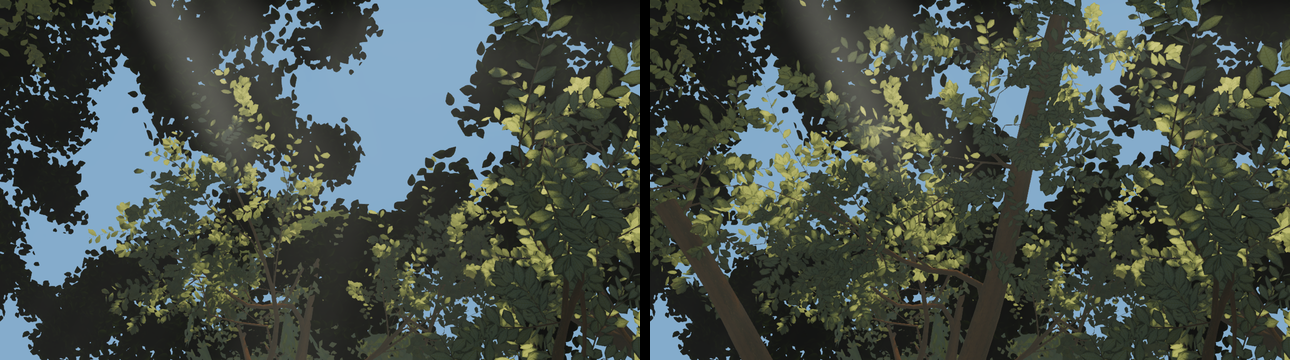
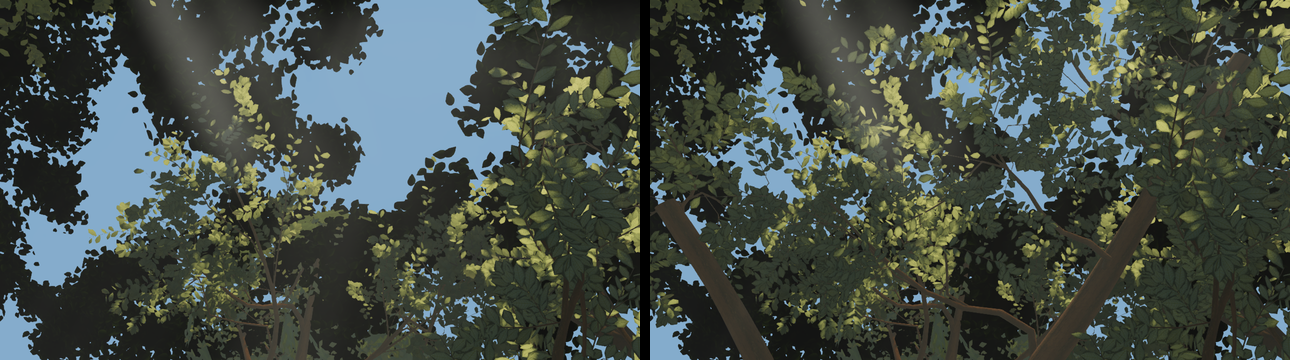
trees (the plateau's roof, v4): the west bough runs on to the plateau's west edge with two more non-casting lobes for the look-up's far corner — w27-plateau-u blue 23.1 → 9.6 % (gaps between leaves, not open sky); six views vs the head 24dc4cac: A–E pixel-identical, F 0.09 % / −0.0001; A 8.70 M

diff --git a/src/world/trees/index.ts b/src/world/trees/index.ts
@@ -548,14 +548,19 @@ const CANOPY_BOUGHS: { giant: string; fromY: number; to: [number, number, number
   {
     giant: 'east-giant',
     fromY: 16.5,
-    to: [16.4, 15.8, -4.6],
-    radius: 0.45,
+    to: [13.4, 16.2, -1.6],
+    radius: 0.5,
     tipRadius: 0.2,
     lobes: [
-      { t: 0.5, center: [23.0, 16.6, -4.2], hR: 3.2, vR: 1.9, density: 1, castShadow: false },
-      { t: 0.75, center: [19.3, 16.0, -3.2], hR: 3.5, vR: 2.0, density: 1, castShadow: false },
+      { t: 0.4, center: [23.0, 16.6, -4.2], hR: 3.2, vR: 1.9, density: 1, castShadow: false },
+      { t: 0.6, center: [19.3, 16.0, -3.2], hR: 3.5, vR: 2.0, density: 1, castShadow: false },
       // the blue west of the zenith (screen (0.69, 0.10) of the look-up → (16, 17, −4.5))
-      { t: 0.97, center: [16.2, 17.0, -4.6], hR: 3.3, vR: 1.9, density: 1, castShadow: false },
+      { t: 0.78, center: [16.2, 17.0, -4.6], hR: 3.3, vR: 1.9, density: 1, castShadow: false },
+      // … and the look-up's far corner (screen (0.85, 0.15) → (13.8, 17, −2.2); (0.85, 0.5) →
+      // (15.4, 17, 0.4)): the bough runs on 4 m to the plateau's west edge. Projected into A / F
+      // the lobes' undersides sit at screen y −0.49 … −0.68 — above the frames.
+      { t: 0.93, center: [13.8, 17.2, -2.0], hR: 3.2, vR: 1.9, density: 1, castShadow: false },
+      { t: 0.99, center: [15.2, 16.4, 0.6], hR: 3.0, vR: 1.8, density: 1, castShadow: false },
     ],
   },
   // … and a short second bough north for the blue east of it (screen (0.19, 0.4) → (25.5, 17, −6.5)),

diff --git a/art/environment/round51-plateau-roof/README.md b/art/environment/round51-plateau-roof/README.md
@@ -5,7 +5,7 @@ sky with crowns only at the frame's edges; the reference has none. Nothing stood
 the plateau oak's crown is 17 m north, the east giant's 11 m south-east.
 
 Two new east-giant canopy boughs (`trees/index.ts` CANOPY_BOUGHS): one leaving the bole at 16.5 m
-and running 14 m west over the plateau to (16.4, 15.8, −4.6) with three ordinary lobes (hR 3.2–3.5),
+and running 18 m west over the plateau to (13.4, 16.2, −1.6) with five ordinary lobes (hR 3.0–3.5),
 one leaving at 15.4 m and running 11 m north to (25.6, 15.6, −6.2) with one lobe. The lobe
 positions were placed by un-projecting the look-up's blue pixels to 17 m (the blue west of the
 zenith at ≈ (16, 17, −4.5), east at ≈ (25.5, 17, −6.5)), and checked by projecting them into A, B, D
@@ -18,15 +18,16 @@ non-casting (the authored writer), so no ground shade moves in any frame; the bo
 | head f6890f4a | 23.1 % |
 | v1: one bough, two lobes over the zenith | 15.7 % |
 | v2: + a lobe north-east of the zenith (missed the blue) | 16.1 % |
-| **v3 (shipped): the bough extended west + the north bough** | **10.8 %** |
+| v3: the bough extended west + the north bough | 10.8 % |
+| **v4 (shipped): the west bough on to the plateau's west edge, two more lobes for the far corner** | **9.6 %** — what remains is gaps between leaves, not open sky |
 
-![](w27-plateau-u-pair.png) left the head, right v3: two boughs cross the look-up with layered lit lobes
+![](w27-plateau-u-pair.png) left the head, right v4: two boughs cross the look-up with layered lit lobes
 
 `w28-plateau-d` (the plateau look-down): 0.0 % changed.
 
-## Six views (large tier, vs the head f6890f4a captured the same way)
+## Six views (large tier, vs the head 24dc4cac captured the same way)
 
-A, B, C, D, E pixel-identical; F 161 pixels (0.017 %) > 2 levels. SSIM Δ 0.0000 on all six. Draws
-A 442 / B 424 (+1) / C 340 / D 390 / E 424 (+1) / F 407; A 8.63 → 8.64 M triangles. tsc green.
-The lobes are ordinary, so the near-canopy LOD gives them their layered near parts when the walker
-is on the plateau.
+A, B, C, D, E pixel-identical (≤ 4 pixels > 2 levels); F 845 pixels (0.09 %), SSIM −0.0001; the other
+five 0.0000. Draws A 442 / B 424 (+1) / C 341 (+1) / D 390 / E 424 (+1) / F 407; A 8.68 → 8.70 M
+triangles. tsc green. The lobes are ordinary, so the near-canopy LOD gives them their layered near
+parts when the walker is on the plateau.
